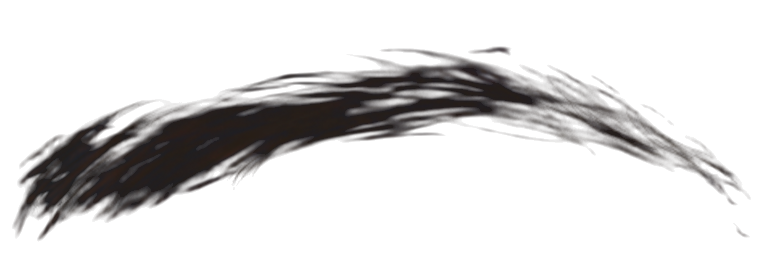
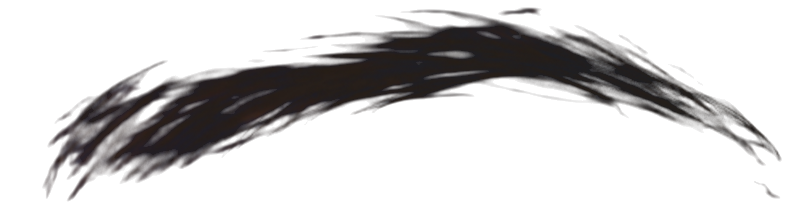
Fixes for eyebrows to make them more dynamic

diff --git a/src/components/TempFaceScan.jsx b/src/components/TempFaceScan.jsx
@@ -6,7 +6,8 @@ import { Camera } from "@mediapipe/camera_utils";
 import { useSelections } from "../SelectionContext";
 import { ImageOffsets, BrowsOffsets, LashesOffsets } from "./CommonStyles";
 import HairImg from "../assets/loose-straight-long.png";
-import BrowRight from "../assets/brows/brow-medium-arch-right.png";
+import BrowLeft from "../assets/brows/brow-soft-arch-left.png";
+import BrowRight from "../assets/brows/brow-soft-arch-right.png";
 import styled from "styled-components";
 import { Button } from "./CommonStyles";
 import { useNavigate } from "react-router-dom";
@@ -168,44 +169,45 @@ function FaceScanNEW() {
         const eyebrowRight = eyebrowRightRef.current;
 
         if (eyebrowLeft && eyebrowRight) {
-          const drawEyebrow = (startIdx, endIdx, img, adjustX, adjustY) => {
+          const drawEyebrow = (startIdx, endIdx, img, isLeft, adjustY) => {
             const start = landmarks[startIdx];
             const end = landmarks[endIdx];
+
             const x = start.x * canvas.width;
             const y = start.y * canvas.height;
-            const width = Math.abs(end.x - start.x) * canvas.width * 10;
+
+            const faceDistance = Math.abs(landmarks[10].z - landmarks[152].z);
+            const distanceFactor = Math.max(
+              0.8,
+              Math.min(1.2, 0.7 / faceDistance)
+            );
+
+            const width =
+              Math.abs(end.x - start.x) * canvas.width * 8.5 * distanceFactor;
             const height = width * (img.height / img.width);
+
+            const faceWidth =
+              Math.abs(landmarks[234].x - landmarks[454].x) * canvas.width;
+
+            // ✅ Fine-tuned inward adjustment
+            const inwardOffset = faceWidth * -0.13; // ~2.5% of face width, tune this
+
+            const horizontalAdjustment = isLeft
+              ? -inwardOffset // move left brow rightward (toward center)
+              : inwardOffset; // move right brow leftward (toward center)
 
             ctx.drawImage(
               img,
-              x - width / 2 + adjustX,
-              y - height / 2 + adjustY,
+              x - width / 2 + horizontalAdjustment,
+              y - height / 2 + adjustY * distanceFactor,
               width,
               height
             );
           };
 
-          const leftOffset = BrowsOffsets.find(
-            (o) => o.key === `${selections.browType}-left`
-          );
-          const rightOffset = BrowsOffsets.find(
-            (o) => o.key === `${selections.browType}-right`
-          );
-
-          drawEyebrow(
-            70,
-            63,
-            eyebrowLeft,
-            leftOffset?.offsetX ?? 0,
-            leftOffset?.offsetY ?? 0
-          );
-          drawEyebrow(
-            300,
-            293,
-            eyebrowRight,
-            rightOffset?.offsetX ?? 0,
-            rightOffset?.offsetY ?? 0
-          );
+          // === Draw both eyebrows ===
+          drawEyebrow(70, 63, eyebrowLeft, true, 0);
+          drawEyebrow(300, 293, eyebrowRight, false, -0.8);
         }
 
         // === Draw Lashes Next ===
